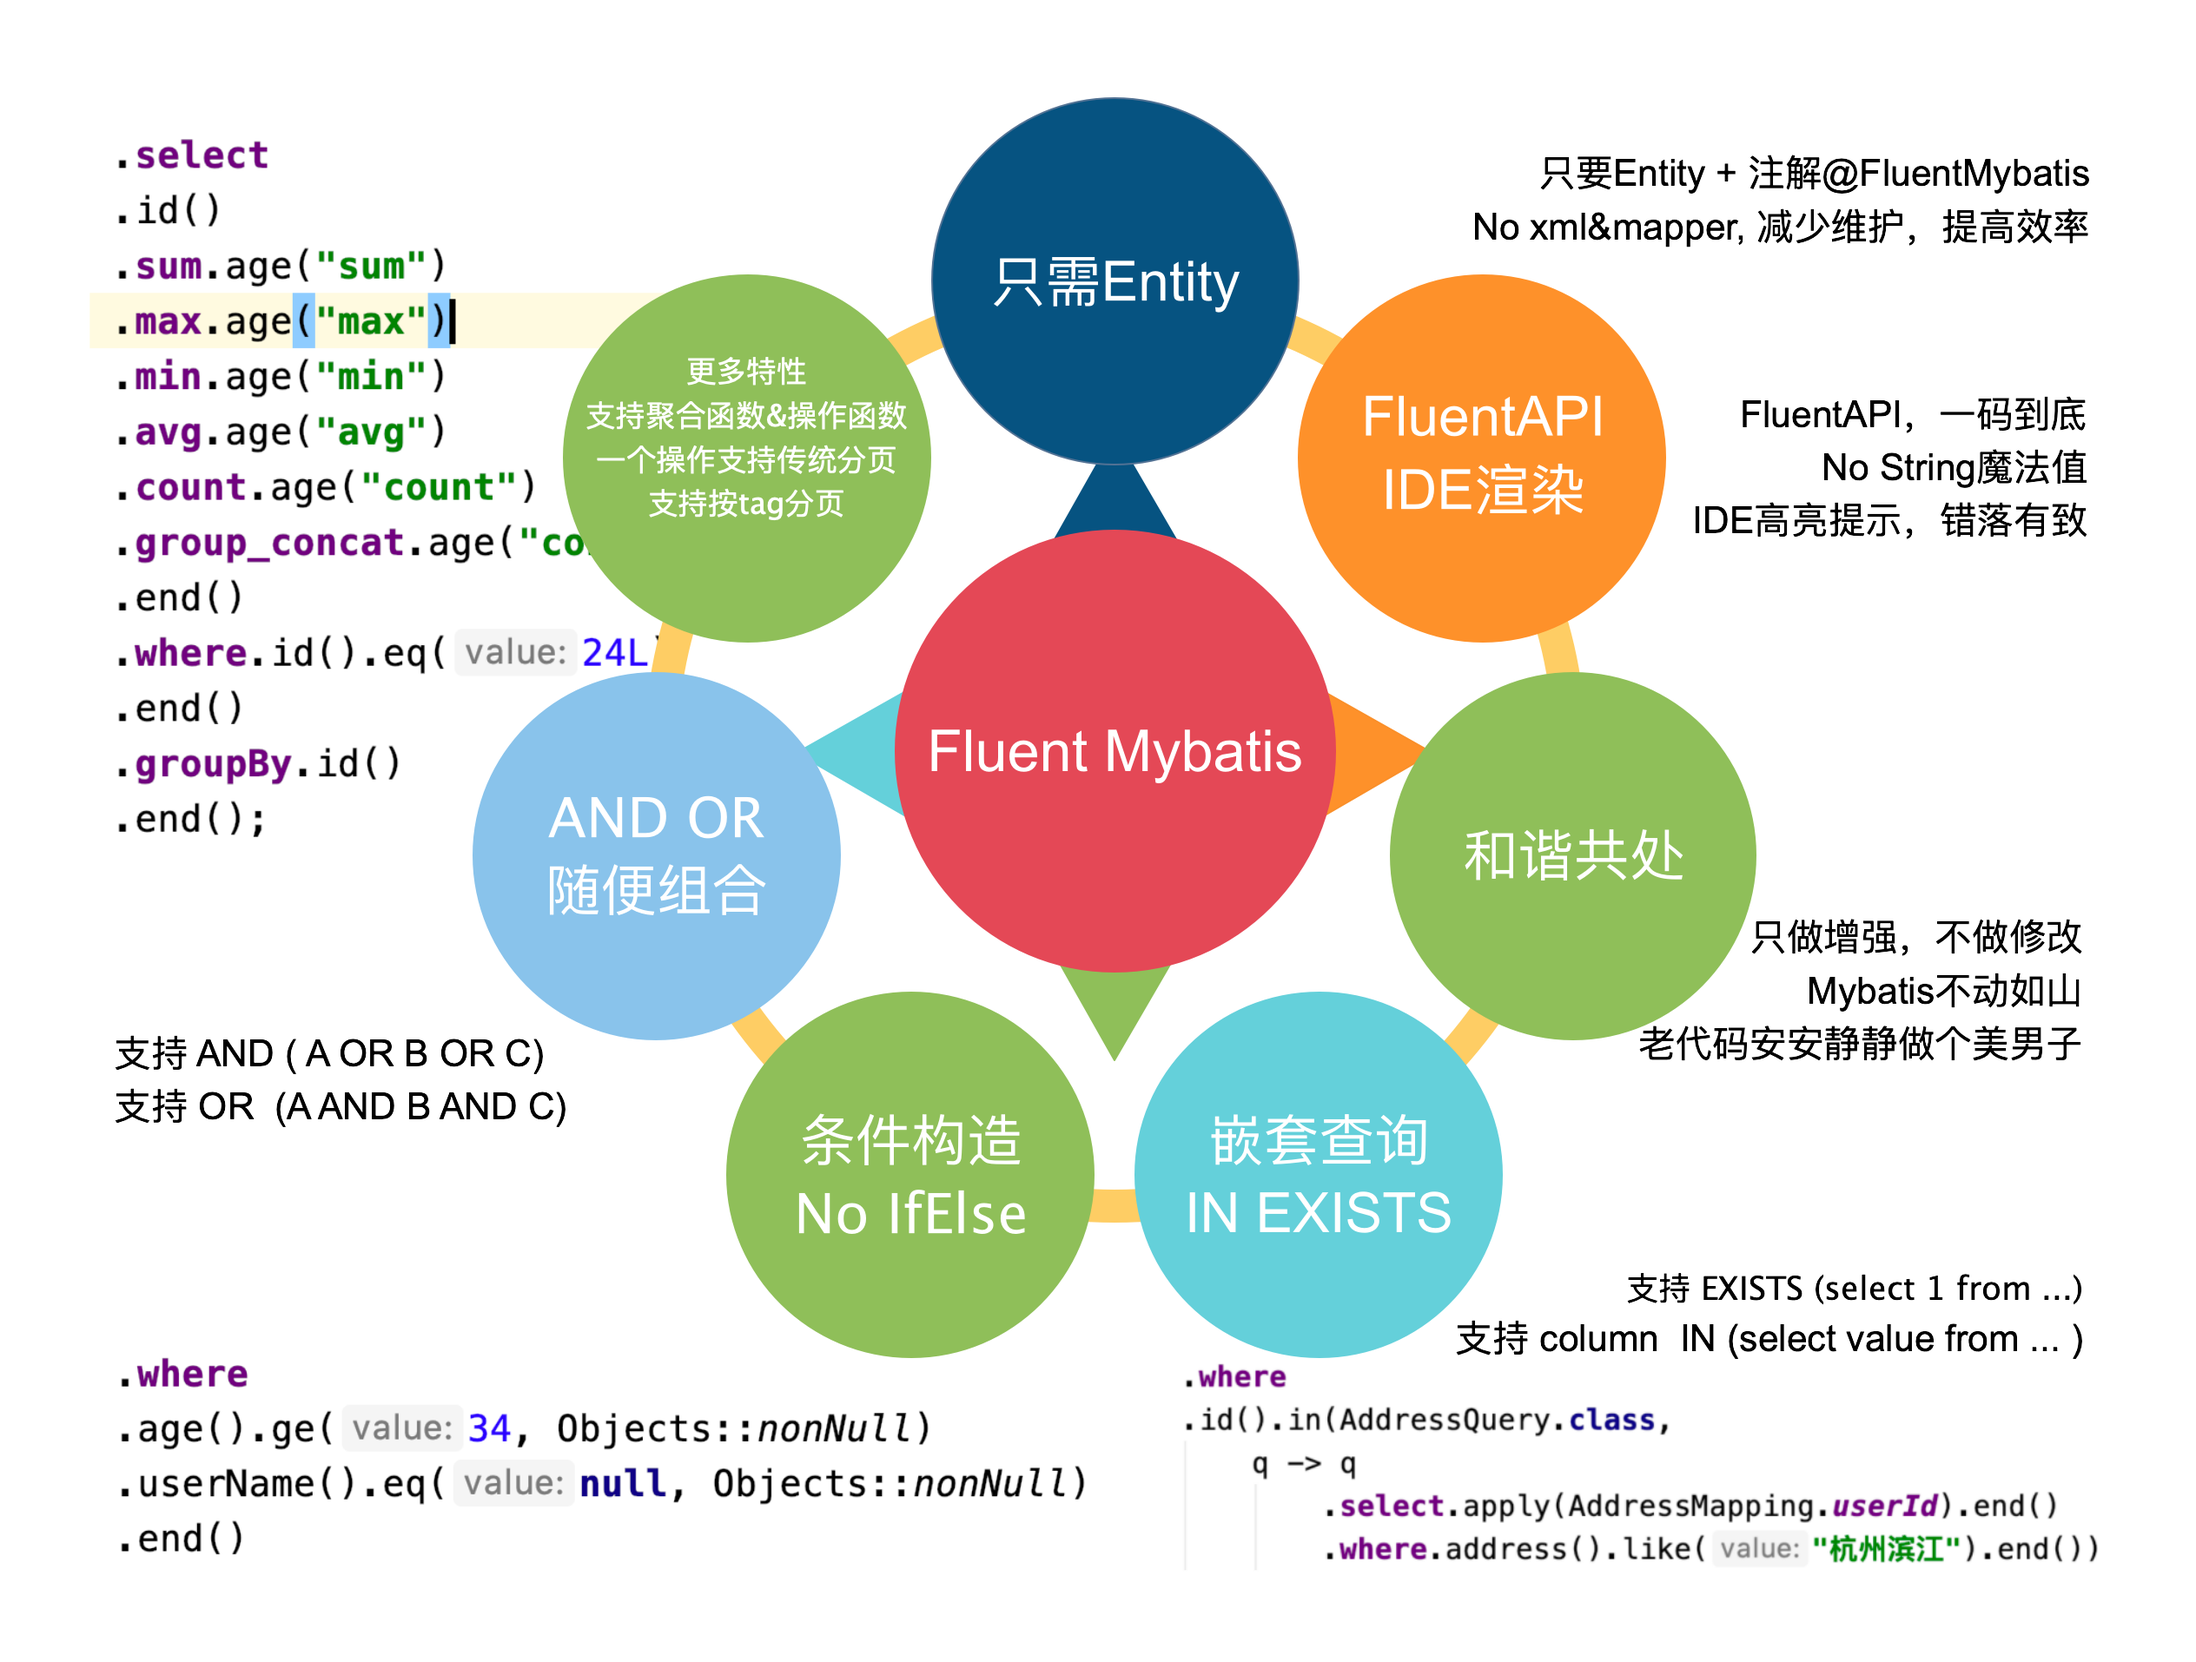
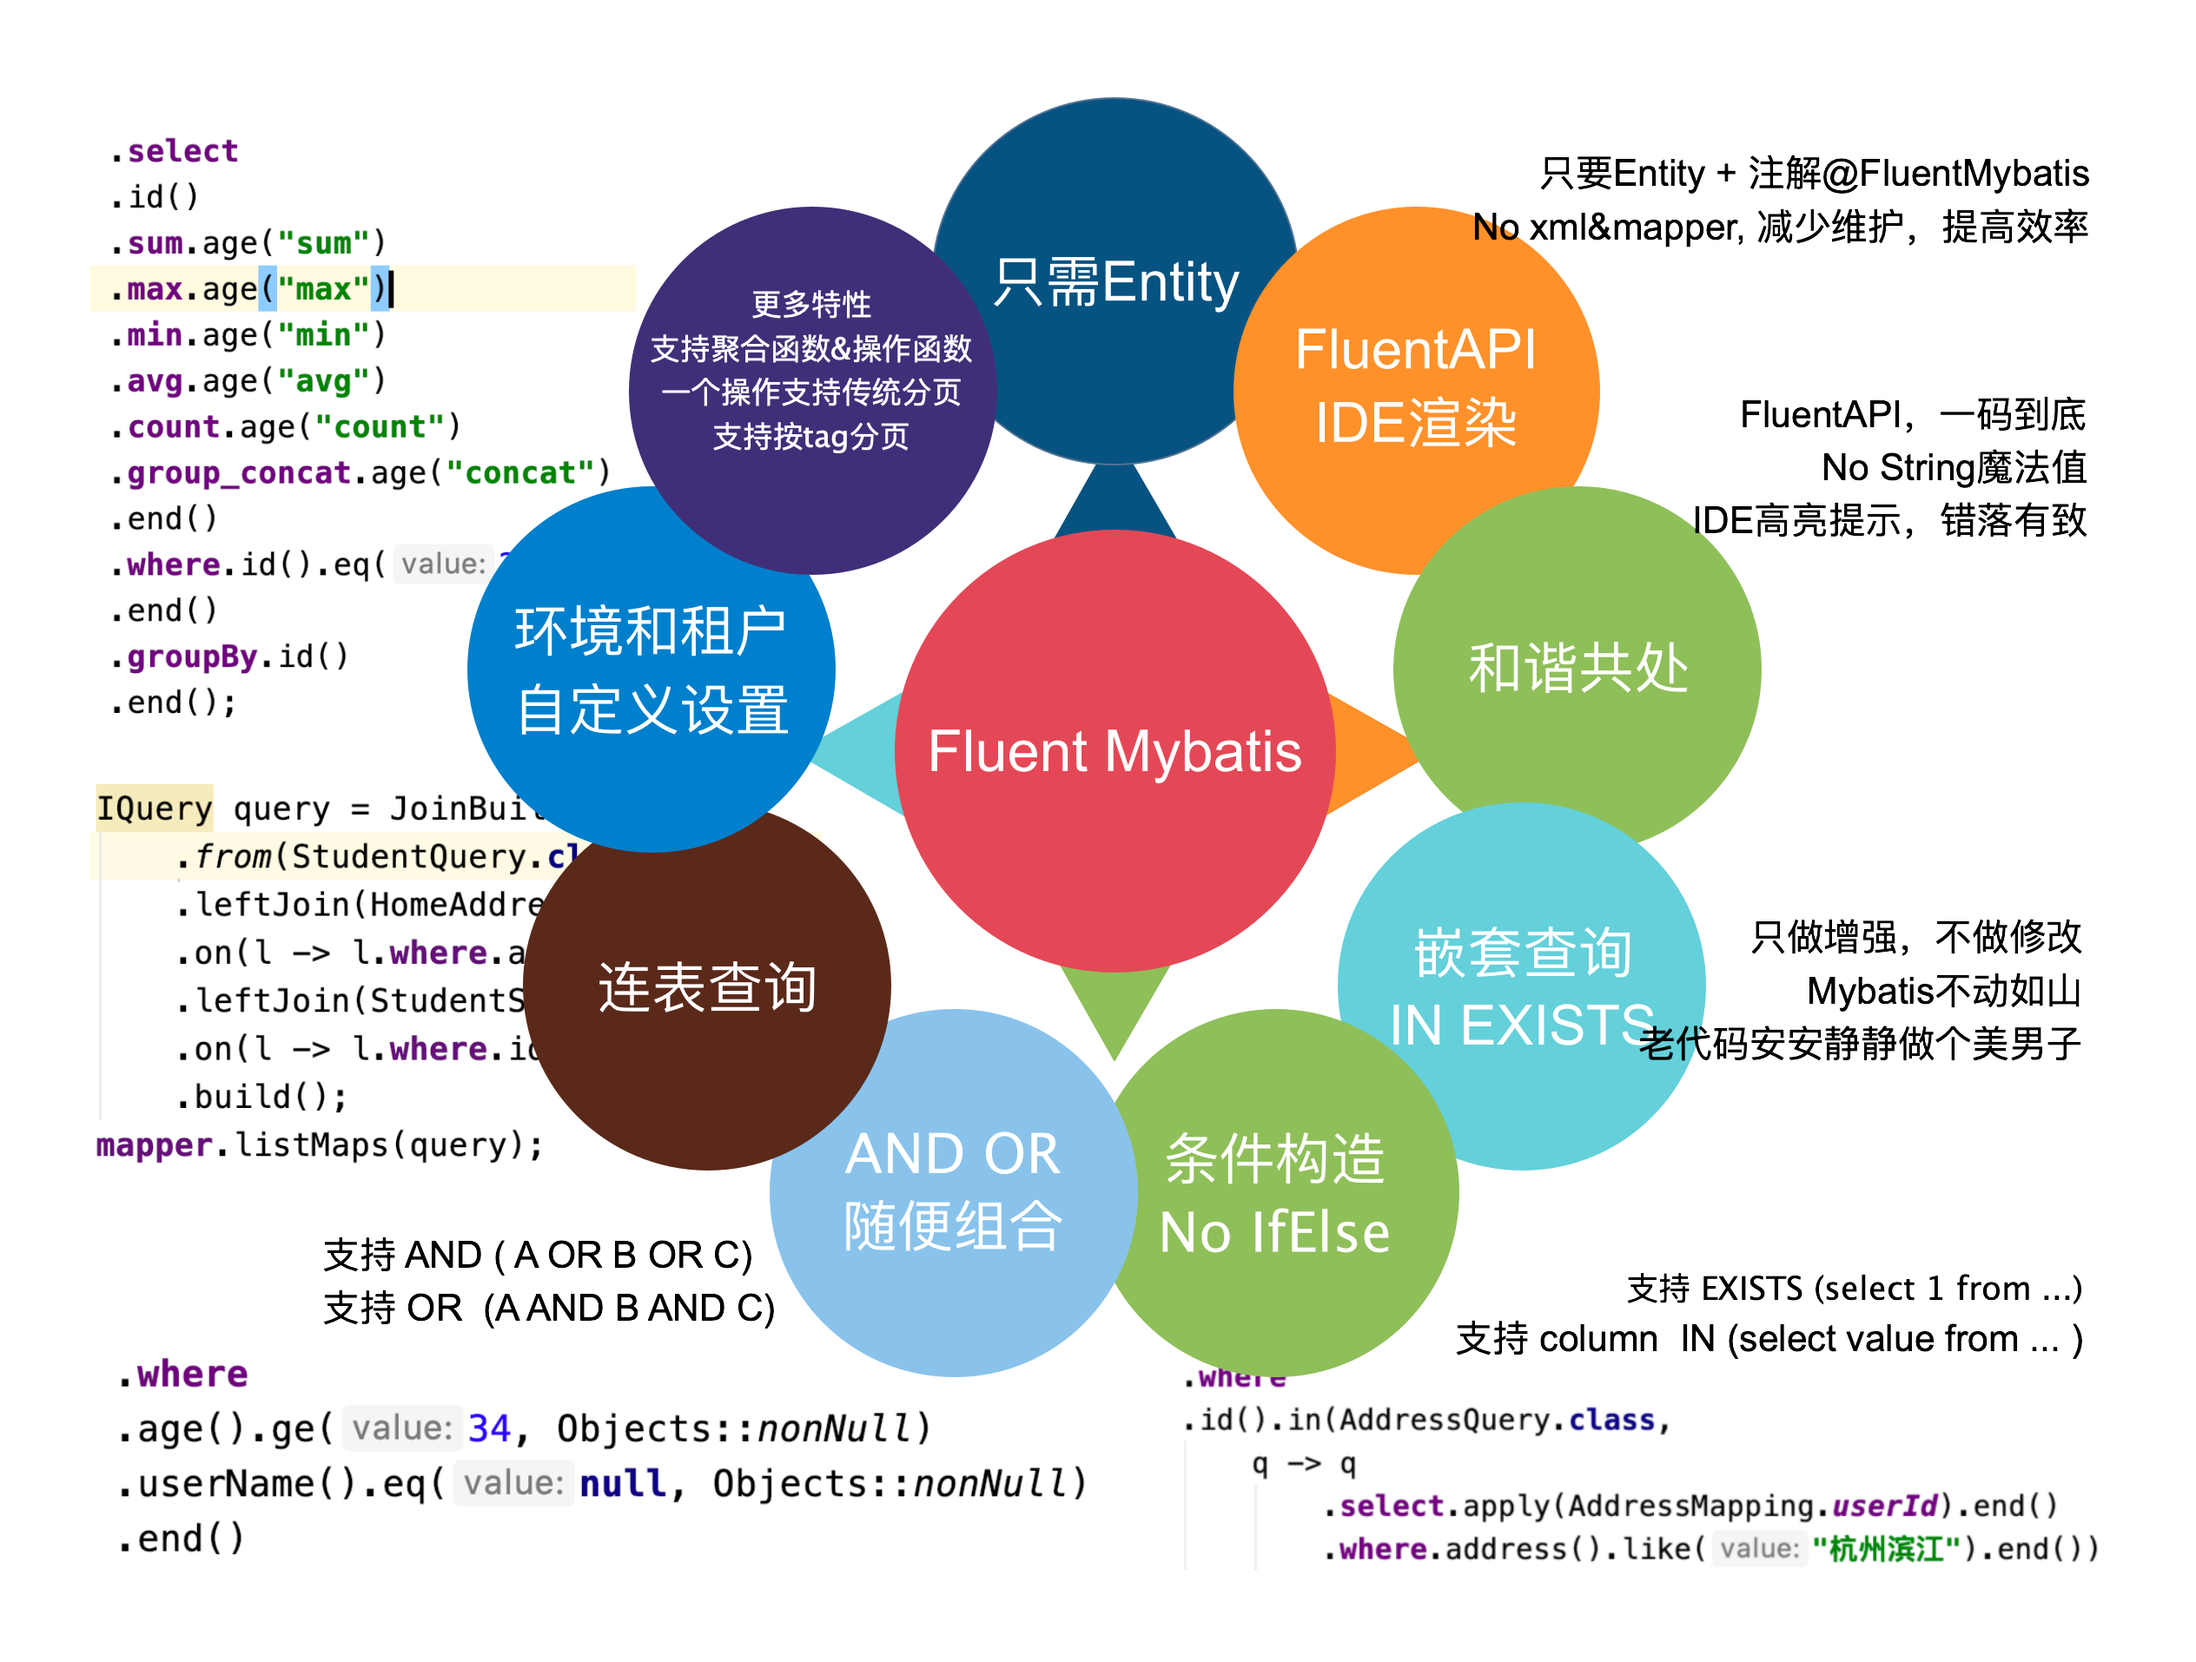
readme， release docs

Changed region(s): [[0.0312, 0.0617, 0.8125, 0.8323]]

diff --git a/fluent-mybatis-test/src/test/java/cn/org/atool/fluent/mybatis/join/JoinQueryTest.java b/fluent-mybatis-test/src/test/java/cn/org/atool/fluent/mybatis/join/JoinQueryTest.java
@@ -115,13 +115,12 @@ public class JoinQueryTest extends BaseTest {
 
     @Test
     void three_join() {
-        IQuery query = JoinBuilder.from(StudentQuery.class,
-            q -> q
+        IQuery query = JoinBuilder
+            .from(StudentQuery.class, q -> q
                 .where.age().eq(3).end())
             .leftJoin(HomeAddressQuery.class, q -> q
                 .where.address().like("xxx").end())
-            .on(l -> l.where.addressId(), r -> r
-                .where.id()).endJoin()
+            .on(l -> l.where.addressId(), r -> r.where.id()).endJoin()
             .leftJoin(StudentScoreQuery.class, q -> q
                 .where.subject().in(new String[]{"a", "b", "c"}).end())
             .on(l -> l.where.id(), r -> r.where.studentId()).endJoin()

diff --git a/README.md b/README.md
@@ -9,3 +9,9 @@
 
 ## FluentMybatis原理
 ![-w930](image/fluent-mybatis-driver.png)
+
+## Fluent-Mybatis 历程
+- 1.4.x 版本, 特性升级, 增加join, left join, right join连表查询; 支持自定义默认查询条件，更新条件。
+- 1.3.x 版本, 重大改版, 语法和1.2.x一样， 但不再生成大量的java类，只需要一个Entity，借助java的processor功能，就实现了强大的fluent形式的增删改查操作。
+- 1.2.x 版本, 在使用了一段时间后, 对fluent mybatis语法进行了比较大的调整, 语法结构已经稳定。但需要借助代码生成器，生成一系列文件，给人的感觉入手有点繁琐。
+- 1.0.x 版本, 借鉴了mybatis plus和tk mybatis的思想, 但基于Fluent API方式进行了重新开发。

diff --git a/release/v1.4.0.md b/release/v1.4.0.md
@@ -1,0 +1,10 @@
+- 功能特性增加
+    1. 增加表关联查询功能: inner join, left join, right join
+    2. 增加实体类插入时, BaseDao 调用IDao自定义方法设置默认值的过程
+    3. 增加查询构造, BaseDao 调用IDao自定义方法设置默认查询条件（比如部署环境，租户）
+    4. 增加更新构造, BaseDao 调用IDao自定义方法设置默认更新条件（比如部署环境，租户）
+    
+- 其它内部优化
+    1. 调整测试所用的表结构
+    2. *Generator代码简化
+    3. 根据FluentEntityInfo构造各实体ClassName代码重构
